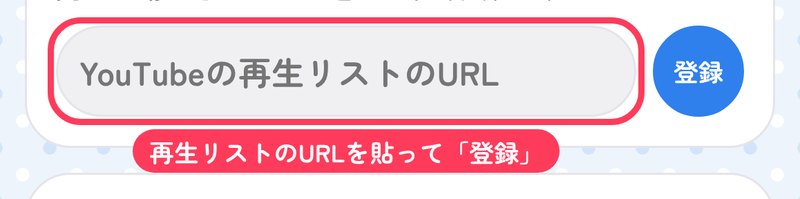
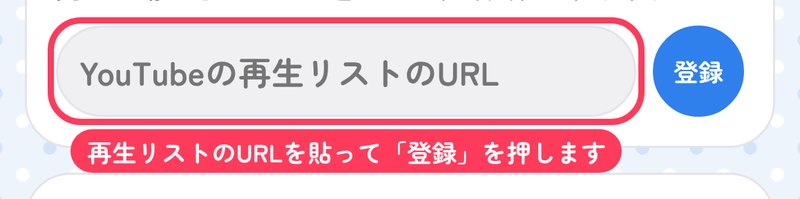
動画同時視聴：説明書とページの文を敬語に（確認待ち）
Claude-Session: https://claude.ai/code/session_01GtDtUv9vA8Hxvx9HgQYeZD

Changed region(s): [[0.0625, 0.6332, 0.7812, 0.8744]]

diff --git a/party/index.html b/party/index.html
@@ -320,7 +320,7 @@ html.tv :focus{outline:4px solid #ff8a00!important;outline-offset:3px;box-shadow
 <script>
 {
 // 版（更新するたびに上げる。画面のいちばん下に小さく出す）
-const VER='2026.11.26-15';
+const VER='2026.11.26-16';
 const SEARCH='https://script.google.com/macros/s/AKfycbxmyUVVj-xb2ICGCtUM4-PhqlsCm4wvcCHjI-IzhZ8OUvDCRyLkJhrC1i1ZMiEnoQoSCQ/exec';
 const DB='https://kikohouse-943cf-default-rtdb.asia-southeast1.firebasedatabase.app';
 const ROOM=(location.hash.slice(1).match(/^[A-Za-z0-9]{24,64}$/)||[''])[0];
@@ -489,14 +489,14 @@ function checkStart(){const n=S.now;if(!n||n.state!=='wait'||!ref)return;
 // 流れていないあいだは「今どうなっているか」と「どうしたらいいか」を出して、押すボタンを光らせる
 function paintStat(){const el2=$('stat');if(!el2)return;const n=S.now;let st=null;try{st=P&&ready?P.getPlayerState():null;}catch(_){}
   let t='',sub='',bg=false,spin=false,mini=false,who=false,glow='';
-  if(!conn){t='つながっていません';sub='電波を確認してね';bg=!(st===1||st===2);}
+  if(!conn){t='つながっていません';sub='電波を確認してください';bg=!(st===1||st===2);}
   else if(perr&&n&&perr.vid===n.vid){t=perr.code===101||perr.code===150?'この動画はここでは流せません':perr.code===100?'動画が見つかりません':'読み込めませんでした';sub='⏭ で次へ';bg=true;glow='next';}
-  else if(!n){t='YouTubeのURLを貼ってね';bg=true;glow='url';}
-  else if(needTap){t='▶ を押してね';sub='次の動画に切りかえます';bg=true;glow='pp';}
+  else if(!n){t='YouTubeのURLを貼ってください';bg=true;glow='url';}
+  else if(needTap){t='▶ を押してください';sub='次の動画に切りかえます';bg=true;glow='pp';}
   else if(n.state==='wait'){t='みんなを待っています（あと'+Math.max(0,15-Math.floor((now()-(n.at||0))/1000))+'秒）';bg=true;spin=true;who=true;}
-  else if(n.ended){t='おわり';sub='次の動画を追加してね';bg=true;glow='url';}
+  else if(n.ended){t='おわり';sub='次の動画を追加してください';bg=true;glow='url';}
   else if(n.state==='play'&&(n.at||0)>now()){t='まもなく始まります';spin=true;bg=st!==2;}
-  else if(n.state==='play'){if(st!==1){if(stuck>=3&&st!==3){t='▶ を押してね';mini=true;glow='pp';}else{t='読み込み中';sub='そのまま待ってね';spin=true;bg=false;mini=true;}}
+  else if(n.state==='play'){if(st!==1){if(stuck>=3&&st!==3){t='▶ を押してください';mini=true;glow='pp';}else{t='読み込み中';sub='そのままお待ちください';spin=true;bg=false;mini=true;}}
     else if(forced){t='音なし：画面のどこかをさわると音が出ます';mini=true;glow='';}}
   else if(n.state==='pause'){t=(n.by===cid?'自分':nameOf(n.by)||'だれか')+'が止めました';sub='続きは ▶';bg=st===null||st===-1||st===5;mini=!bg;glow='pp';}
   // 読み込み中のまま10秒たったら読み込み直す
@@ -622,7 +622,7 @@ function openSet(){const ov=el('div','ov'),sh=el('div','sheet sset');sh.append(e
   const lv=btn('pk off','退出',()=>{ov.remove();leave();});
   const lg=btn('pk','動きの記録（調べる用）',()=>{const ov2=el('div','ov'),s2=el('div','sheet hsheet'),hd=el('div','fhd');hd.append(el('b',null,'動きの記録'),btn('ic','✕',()=>ov2.remove()));
     const pre=el('pre','logpre',logA.slice().reverse().join('\n')||'まだありません');const cp=btn('pk','コピー',()=>{(navigator.clipboard&&navigator.clipboard.writeText?navigator.clipboard.writeText(pre.textContent):Promise.reject()).then(()=>{cp.textContent='コピーしました';},()=>{});});
-    const bx=el('div','hbody');bx.append(el('div','rs','版 '+VER+'　新しい順。おかしな動きのあとに、ここを画面写真かコピーで送ってね'),cp,pre);s2.append(hd,bx);ov2.append(s2);ov2.addEventListener('click',e=>{if(e.target===ov2)ov2.remove();});document.body.append(ov2);});
+    const bx=el('div','hbody');bx.append(el('div','rs','版 '+VER+'　新しい順。おかしな動きのあとに、ここを画面写真かコピーで送ってください'),cp,pre);s2.append(hd,bx);ov2.append(s2);ov2.addEventListener('click',e=>{if(e.target===ov2)ov2.remove();});document.body.append(ov2);});
   if(!TVD&&!TVP){const tr=el('div','srow');const tb=btn('tg'+(ls('tvlink')?' on':''),ls('tvlink')?'つないでいる':'つなぐ',()=>{ov.remove();tvPair();});tr.append(el('span',null,'テレビとつなぐ（待ち受け）'),tb);sh.append(tr);}
   // この機械だけ、ほかの機械とまとまった「同じ人」から分かれて入りなおす（もとの人はほかの機械にそのまま残る）
   const sp=btn('pk','この機械を別の人として入りなおす',()=>{if(!confirm('この機械だけを別の人として入りなおします。次の画面で、もう片方とちがう名前を入れてください。'))return;ov.remove();leaving=true;try{ref&&ref.child('members/'+cid).onDisconnect().cancel();}catch(_){}ls('cid',null);ls('name',null);ls('icon',null);ls('dots',null);location.reload();});
@@ -795,7 +795,7 @@ function build(){const A=$('app');A.textContent='';
   const rel=btn('ic','↻',()=>loadWl()),chg=btn('ic','変更',()=>{if(confirm('みたいものリストの登録をやめて、別の再生リストにしますか？'))setWl('');});rel.id='wlrel';chg.id='wlchg';rel.setAttribute('aria-label','読み込み直す');
   wh.append(el('h2',null,'みたいものリスト'),rel,chg);wi.type='text';wi.placeholder='YouTubeの再生リストのURL';wi.autocomplete='off';wi.enterKeyHint='done';
   const reg2=()=>{if(setWl(wi.value.trim()))wi.value='';};wi.addEventListener('keydown',e=>{if(e.key==='Enter'&&!e.isComposing&&e.keyCode!==229){e.preventDefault();reg2();}});
-  wu.append(wi,btn('ic go','登録',reg2));wf.append(el('p',null,'YouTubeの再生リストのURLを登録すると、自分だけが見える状態でリストの中身をここで開ける'),el('p',null,'見たい動画をここから選んですぐ入れられる'),wu);W.append(wh,wf,wr);W.classList.add('g-side');
+  wu.append(wi,btn('ic go','登録',reg2));wf.append(el('p',null,'YouTubeの再生リストのURLを登録すると、自分だけが見える状態でリストの中身をここで開けます。'),el('p',null,'見たい動画をここから選んで、すぐ入れられます。'),wu);W.append(wh,wf,wr);W.classList.add('g-side');
   top.classList.add('g-top');er.classList.add('g-top');M.classList.add('g-side');PC.classList.add('g-play');AD.classList.add('g-side');Q.classList.add('g-side');R.classList.add('g-side');
   const vr=el('div','ver','版 '+VER);vr.classList.add('g-side');A.append(top,er,M,PC,Q,AD,W,R,vr);dragInit(Q);make(stage);}
 function paintTime(){const n=S.now,bar=$('bar');if(!bar||drag)return;
@@ -807,7 +807,7 @@ function kick(id,m){const ov=el('div','ov'),sh=el('div','sheet kick'),d=el('i','
   const hd=el('div','khd');hd.append(d,el('b',null,m.name||''));
   const bs=el('div','cbtn');bs.append(btn('pk','やめる',()=>ov.remove()),btn('big','退出させる',()=>{ov.remove();if(ref)ref.child('members/'+id).remove();}));
   sh.append(hd,bs);ov.append(sh);ov.addEventListener('click',e=>{if(e.target===ov)ov.remove();});document.body.append(ov);}
-function chip(id,m){const c=el('span','chip'+(shown(id,m)?'':away(id,m)?' away':' off')),d=el('i','dot');if(away(id,m))c.title='バックグラウンド再生かも';paintDot(d,m.name,m.color,m.icon);
+function chip(id,m){const c=el('span','chip'+(shown(id,m)?'':away(id,m)?' away':' off')),d=el('i','dot');if(away(id,m))c.title='バックグラウンド再生中かもしれません';paintDot(d,m.name,m.color,m.icon);
   const pa=popAt[id],pt=pa?Date.now()-pa.t:1e9;if(pt<900){c.classList.add('pop-'+pa.k);d.style.animationDelay=-pt+'ms';}c.append(d,document.createTextNode(m.name||''));
   if(id===cid){c.classList.add('self');c.title='名前を変える';c.style.cursor='pointer';c.addEventListener('click',()=>askName(()=>{const v=me();if(ref)Promise.resolve(ref.child('members/'+cid).update({name:v.name,color:v.color,icon:v.icon||null,dots:v.dots||null})).then(()=>{wantMerge=true;merge();wantMerge=false;});},true));}
   else{c.style.cursor='pointer';c.addEventListener('click',()=>kick(id,m));}return c;}
@@ -837,17 +837,17 @@ function openHelp(){const ov=el('div','ov'),sh=el('div','sheet hsheet');const hd
       d.append(tx(el('p','hb'),x));});bx.append(d);};
     const G=n=>'IMG:'+(I?'i_':'o_')+n+'.jpg';
     H('友だちを呼ぶ',[G('call')]);
-    H('動画を入れる',[G('add'),'q:今すぐ|今すぐ再生される','q:次に再生|今の動画が終わったら再生される','q:後で再生|最後に再生される']);
-    H('動画検索',[G('find'),'s:YouTubeの動画をさがして、そのまま入れられる']);
-    H('ボタン',[G('ctl'),G('opt'),'このボタンで操作したときだけ、みんなの動画も同じように動く',I?'s:YouTubeの画面（全画面など）で止めたり進めたりしても、みんなの動画は変わらない。自分の動画もすぐ元にもどる':'s:動画の上（YouTubeのボタン）やイヤホンのボタンで操作しても、みんなの動画は変わらない。自分の動画もすぐ元にもどる']);
-    H('見てる人',[G('mem'),'s:自分の丸を押すと、名前やアイコンを変えられる']);
-    H('通知',['IMG:toast.jpg','誰かが操作したとき・動画を追加したとき・入ってきたときに通知が出る','s:（ピクチャインピクチャなど、一部の画面では出ない）']);
-    H('みたいものリスト',[G('wl'),'YouTubeの再生リストのURLを登録すると、自分だけが見える状態でリストの中身をここで開ける','見たい動画をここから選んですぐ入れられる']);
-    if(I)H('小窓で見る',['1:動画をさわる','1:点線の丸を押す','1:[PIP] を押す']);
-    else{H('小窓で見る',['「小窓」ボタンを押す','s:パソコンのChromeだけ。詳細設定の「自動小窓」をオンにすると、再生したら自動で小窓になる']);
+    H('動画を入れる',[G('add'),'q:今すぐ|すぐに再生されます','q:次に再生|今の動画が終わったら再生されます','q:後で再生|最後に再生されます']);
+    H('動画検索',[G('find'),'s:YouTubeの動画を探して、そのまま入れられます。']);
+    H('ボタン',[G('ctl'),G('opt'),'このボタンで操作したときだけ、みんなの動画も同じように動きます。',I?'s:YouTubeの画面（全画面など）で止めたり進めたりしても、みんなの動画は変わりません。自分の動画もすぐ元に戻ります。':'s:動画の上（YouTubeのボタン）やイヤホンのボタンで操作しても、みんなの動画は変わりません。自分の動画もすぐ元に戻ります。']);
+    H('見ている人',[G('mem'),'s:自分の丸を押すと、名前やアイコンを変えられます。']);
+    H('通知',['IMG:toast.jpg','誰かが操作したとき・動画を追加したとき・入ってきたときに、通知が出ます。','s:（ピクチャインピクチャなど、一部の画面では出ません）']);
+    H('みたいものリスト',[G('wl'),'YouTubeの再生リストのURLを登録すると、自分だけが見える状態でリストの中身をここで開けます。','見たい動画をここから選んで、すぐ入れられます。']);
+    if(I)H('小窓で見る',['1:動画に触れます','1:点線の丸を押します','1:[PIP] を押します']);
+    else{H('小窓で見る',['「小窓」ボタンを押します。','s:パソコンのChromeだけで使えます。詳細設定の「自動小窓」をオンにすると、再生したときに自動で小窓になります。']);
       H('キーボード',['q:スペース / K|再生・停止','q:← / J|10秒戻す','q:→ / L|10秒進む','q:Shift＋N|次へ','q:Shift＋P|前へ','q:M|音を消す','q:F|全画面','q:C|字幕']);}
-    H('テレビで見る',['IMG:tvwait.jpg','1:テレビのブラウザで wakiaseworld-cpu.github.io/kikohouse-app/tv を開く','1:出てきた番号を、ここに入れる',G('tvset'),'あとは部屋を開くだけで、テレビに映る','s:つなぐのは最初の1回だけ'].concat(I?[]:['s:Chromebookなら、Chromeの ⋮ →「保存して共有」→「キャスト」でも映せる']));
-    H('困ったとき',['q:音が出ない|「消音」を押す','q:「▶ を押してね」と出た|▶ を押す','q:ずっと読み込み中|ページを開き直す','q:流せない動画|⏭ で次へ','q:なんか変な動きをした|詳細設定 →「動きの記録」を画面写真で送る']);};
+    H('テレビで見る',['IMG:tvwait.jpg','1:テレビのブラウザで wakiaseworld-cpu.github.io/kikohouse-app/tv を開きます','1:出てきた番号を、ここに入れます',G('tvset'),'あとは部屋を開くだけで、テレビに映ります。','s:つなぐのは最初の1回だけです。'].concat(I?[]:['s:Chromebookなら、Chromeの ⋮ →「保存して共有」→「キャスト」でも映せます。']));
+    H('困ったとき',['q:音が出ない|「消音」を押してください','q:「▶ を押してください」と出た|▶ を押してください','q:ずっと読み込み中|ページを開き直してください','q:流せない動画|⏭ で次へ進んでください','q:おかしな動きをした|詳細設定 →「動きの記録」を画面写真で送ってください']);};
   [['i','iPhone'],['o','パソコン']].forEach(([d,t])=>{const b=btn('tg',t,()=>paint(d));b.dataset.d=d;tb.append(b);});
   paint(ls('hdev')||(iOS?'i':'o'));ov.append(sh);ov.addEventListener('click',e=>{if(e.target===ov)ov.remove();});document.body.append(ov);}
 // さがす画面：動画がまるごと見える位置までスクロールして、その下に画面を出す
@@ -897,9 +897,9 @@ const WL={id:ls('wl')||'',items:[],busy:false,err:'',n:20};try{WL.items=JSON.par
 function loadWl(){if(!WL.id||WL.busy)return;WL.busy=true;WL.err='';paintWl();const id=WL.id,old={};WL.items.forEach(x=>{if(x&&x.title)old[x.vid]=x.title;});
   playlist(id).then(ids=>{const need=ids.filter(v=>!old[v]);return titles(need).then(ts=>{need.forEach((v,i)=>{old[v]=ts[i]||'';});return ids.map(v=>({vid:v,title:old[v]||''}));});})
     .then(items=>{if(WL.id!==id)return;WL.items=items;ls('wli',JSON.stringify(items));})
-    .catch(()=>{if(WL.id===id)WL.err='読み込めませんでした。再生リストが「公開」か「限定公開」になっているか確かめてね。';})
+    .catch(()=>{if(WL.id===id)WL.err='読み込めませんでした。再生リストが「公開」か「限定公開」になっているか確かめてください。';})
     .finally(()=>{WL.busy=false;paintWl();});}
-function setWl(u){const id=listOf(u)||(/^[\w-]{12,}$/.test(String(u||'').trim())?String(u).trim():'');if(u&&!id){WL.err='再生リストのURLを貼ってね（list= が入っているURL）';paintWl();return false;}
+function setWl(u){const id=listOf(u)||(/^[\w-]{12,}$/.test(String(u||'').trim())?String(u).trim():'');if(u&&!id){WL.err='再生リストのURLを貼ってください（list= が入っているURL）';paintWl();return false;}
   WL.id=id;WL.items=[];WL.n=20;WL.err='';ls('wl',id||null);ls('wli',null);paintWl();loadWl();return true;}
 function paintWl(){const L=$('wlr');if(!L)return;L.textContent='';const has=!!WL.id;$('wlf').hidden=has;$('wlrel').hidden=$('wlchg').hidden=!has;
   if(WL.err)L.append(el('div','empty',WL.err));if(!has)return;
